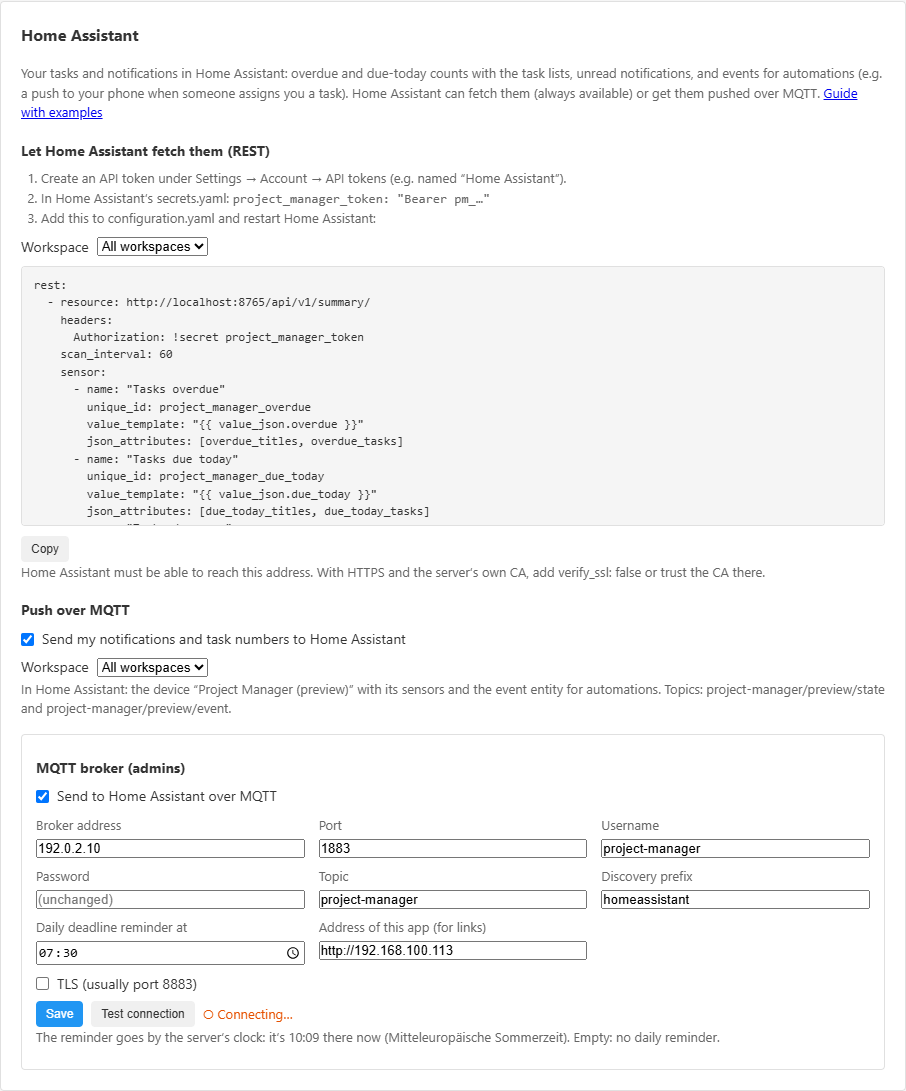
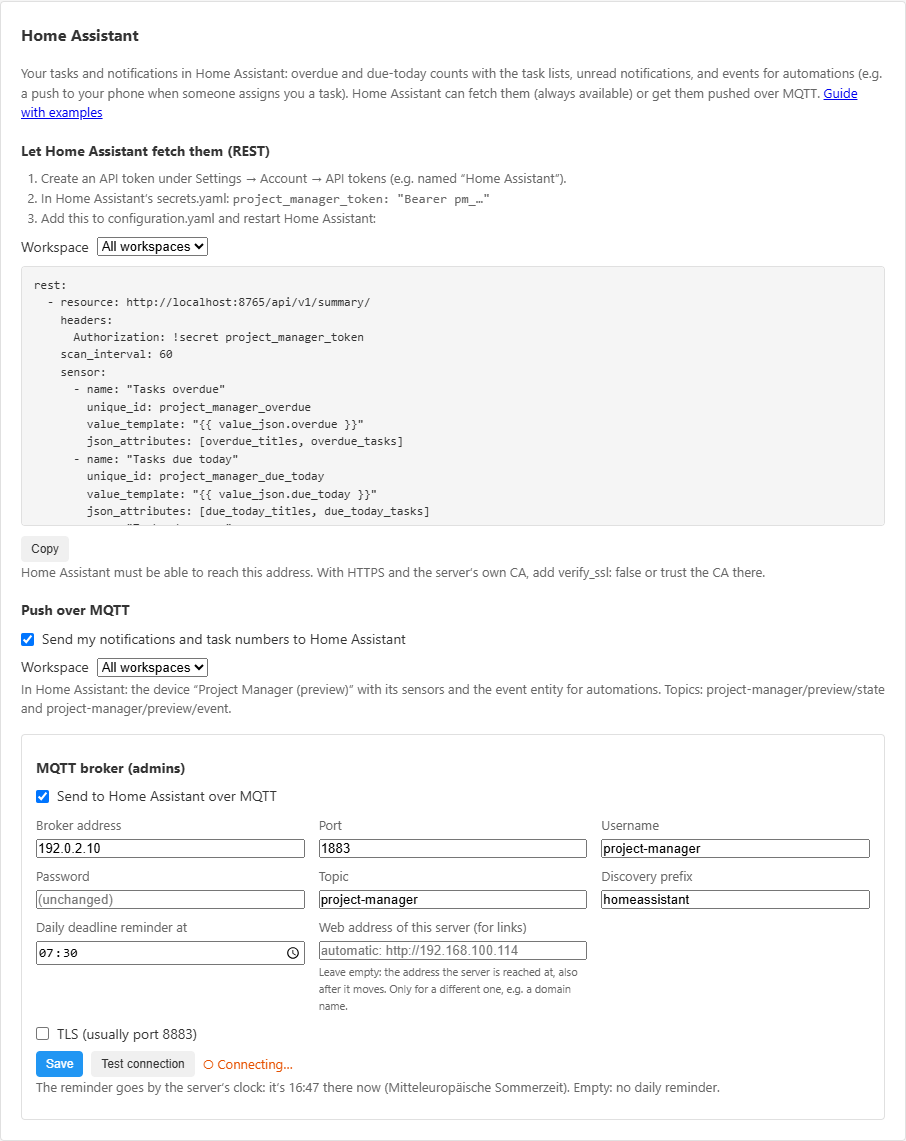
Home Assistant links: use the address the server is reached at (v1.50.1)
app/server_url.py remembers the address requests come in on (not
localhost; stored only when it changes); MQTT links and the device's
configuration URL use it when "Web address of this server" is empty, so
they follow the server to a new IP. The settings field (renamed from the
misleading "Address of this app") shows it as "automatic: …".

Changed region(s): [[0.0, 0.0312, 0.9581, 0.9661], [0.649, 0.5921, 0.9581, 0.6544]]

diff --git a/frontend/src/locales/de.js b/frontend/src/locales/de.js
@@ -41,7 +41,6 @@ const de = {
   "Add label": "Label hinzufügen",
   "Add subtask": "Unteraufgabe hinzufügen",
   "Add this to configuration.yaml and restart Home Assistant:": "Füge das in die configuration.yaml ein und starte Home Assistant neu:",
-  "Address of this app (for links)": "Adresse dieser App (für Links)",
   "Admin": "Admin",
   "admin, sees it anyway": "Admin, sieht es ohnehin",
   "All": "Alle",
@@ -83,6 +82,7 @@ const de = {
   "Assignee…": "Zuständig…",
   "At least 8 characters.": "Mindestens 8 Zeichen.",
   "Automatic (browser language)": "Automatisch (Browsersprache)",
+  "automatic: {url}": "automatisch: {url}",
   "Back": "Zurück",
   "Back up automatically every night (03:15)": "Jede Nacht automatisch sichern (03:15)",
   "Back up now": "Jetzt sichern",
@@ -381,6 +381,7 @@ const de = {
   "last workday": "letzter Werktag",
   "last {weekday}": "letzter {weekday}",
   "Later": "Später",
+  "Leave empty: the address the server is reached at, also after it moves. Only for a different one, e.g. a domain name.": "Leer lassen: die Adresse, unter der der Server erreicht wird – auch nach einem Umzug. Nur für eine andere ausfüllen, z. B. einen Domainnamen.",
   "Let Home Assistant fetch them (REST)": "Von Home Assistant abrufen lassen (REST)",
   "Loading projects…": "Projekte werden geladen …",
   "Loading tasks…": "Aufgaben werden geladen …",
@@ -803,6 +804,7 @@ const de = {
   "Waiting for: {tasks}": "Wartet auf: {tasks}",
   "waiting · {n}": "wartet · {n}",
   "Waits for": "Wartet auf",
+  "Web address of this server (for links)": "Webadresse dieses Servers (für Links)",
   "Week": "Woche",
   "week": "Woche",
   "weekly": "wöchentlich",

diff --git a/frontend/src/components/HomeAssistantSettings.js b/frontend/src/components/HomeAssistantSettings.js
@@ -65,6 +65,8 @@ function BrokerSettings({ onSaved }) {
 
   // What's saved on the server (the form may hold unsaved edits).
   const [saved, setSaved] = useState(null);
+  // The address the server is reached at, used for links when app_url is empty.
+  const [detected, setDetected] = useState('');
 
   useEffect(() => {
     call('/api/v1/home-assistant/mqtt')
@@ -72,6 +74,7 @@ function BrokerSettings({ onSaved }) {
         setForm(data.settings);
         setSaved(data.settings);
         setStatus(data.status);
+        setDetected(data.detected_url || '');
       })
       .catch((err) => setMessage({ ok: false, text: err.message }));
   }, []);
@@ -167,8 +170,15 @@ function BrokerSettings({ onSaved }) {
           <input type="time" value={form.reminder_time} onChange={(e) => set('reminder_time', e.target.value)} />
         </label>
         <label>
-          {t('Address of this app (for links)')}
-          <input value={form.app_url} onChange={(e) => set('app_url', e.target.value)} placeholder={IS_DESKTOP ? getServer() || '' : window.location.origin} />
+          {t('Web address of this server (for links)')}
+          <input
+            value={form.app_url}
+            onChange={(e) => set('app_url', e.target.value)}
+            placeholder={detected ? t('automatic: {url}', { url: detected }) : IS_DESKTOP ? getServer() || '' : window.location.origin}
+          />
+          <small>
+            {t('Leave empty: the address the server is reached at, also after it moves. Only for a different one, e.g. a domain name.')}
+          </small>
         </label>
       </div>
       <label className="ha-check">

diff --git a/backend/app/mqtt.py b/backend/app/mqtt.py
@@ -35,7 +35,7 @@ import paho.mqtt.client as paho
 from sqlalchemy import event
 from sqlalchemy.orm import Session
 
-from app import access, summary
+from app import access, server_url, summary
 from app.database import SessionLocal
 from app.models import AppSetting, Notification, Task, TaskComment, User
 from app.version import APP_VERSION
@@ -52,7 +52,7 @@ DEFAULTS = {
     "mqtt_topic": "project-manager",
     "mqtt_discovery_prefix": "homeassistant",
     "mqtt_reminder_time": "07:30",  # server local time; "" = no daily reminder
-    "mqtt_app_url": "",  # e.g. http://192.168.100.113, for links in events and sensors
+    "mqtt_app_url": "",  # links in events and sensors; "": the address the server is reached at (app/server_url.py)
 }
 CONNECTION_KEYS = ("mqtt_enabled", "mqtt_host", "mqtt_port", "mqtt_username", "mqtt_password", "mqtt_tls", "mqtt_topic")
 REMINDER_SENT_KEY = "mqtt_reminder_sent"  # date of the last daily reminder
@@ -329,6 +329,10 @@ class Bridge:
         if reason_code is not None and str(reason_code) not in ("0", "Success", "Normal disconnection"):
             self.last_error = str(reason_code)
 
+    def _app_url(self, db: Session) -> str:
+        """Where links point: the address set in the settings, else the one the server is reached at."""
+        return (self.cfg["mqtt_app_url"] or server_url.get(db)).rstrip("/")
+
     def _publish(self, topic: str, payload, retain: bool = False):
         if self.client is None or not self.connected:
             return
@@ -345,14 +349,14 @@ class Bridge:
         except ValueError:
             return None
 
-    def _discovery(self, user: User) -> dict:
+    def _discovery(self, user: User, app_url: str = "") -> dict:
         """topic -> config for the user's entities."""
         cfg, s = self.cfg, slug(user.username)
         base, disc = cfg["mqtt_topic"], cfg["mqtt_discovery_prefix"]
         device = {"identifiers": [f"project_manager_{s}"], "name": f"Project Manager ({user.username})",
                   "manufacturer": "Project Manager", "model": "Tasks", "sw_version": APP_VERSION}
-        if cfg["mqtt_app_url"]:
-            device["configuration_url"] = cfg["mqtt_app_url"]
+        if app_url:
+            device["configuration_url"] = app_url
         common = {"device": device, "availability_topic": f"{base}/status"}
         state = f"{base}/{s}/state"
         out = {}
@@ -385,13 +389,13 @@ class Bridge:
             self._publish(f"{self.cfg['mqtt_topic']}/{s}/state", "", retain=True)
         for s, user in users.items():
             if force or s not in self.announced:
-                for topic, entity in self._discovery(user).items():
+                for topic, entity in self._discovery(user, self._app_url(db)).items():
                     self._publish(topic, entity, retain=True)
         self.announced = set(users)
 
     def _publish_states(self, db: Session):
         for user in self._users(db):
-            data = summary.build(db, user, self._workspace(db, user), base_url=self.cfg["mqtt_app_url"].rstrip("/"))
+            data = summary.build(db, user, self._workspace(db, user), base_url=self._app_url(db))
             self._publish(f"{self.cfg['mqtt_topic']}/{slug(user.username)}/state", data, retain=True)
 
     def _publish_notifications(self, db: Session, ids):
@@ -417,8 +421,9 @@ class Bridge:
                 "actor": n.actor.username if n.actor else None,
                 "excerpt": n.excerpt,
             }
-            if self.cfg["mqtt_app_url"] and n.task_id:
-                payload["url"] = f"{self.cfg['mqtt_app_url'].rstrip('/')}/?task={n.task_id}"
+            app_url = self._app_url(db)
+            if app_url and n.task_id:
+                payload["url"] = f"{app_url}/?task={n.task_id}"
             self._publish(f"{self.cfg['mqtt_topic']}/{slug(user.username)}/event", payload)
 
     def _remind(self, db: Session):
@@ -433,7 +438,7 @@ class Bridge:
         if sent is not None and sent.value == today:
             return
         for user in self._users(db):
-            data = summary.build(db, user, self._workspace(db, user), base_url=self.cfg["mqtt_app_url"].rstrip("/"))
+            data = summary.build(db, user, self._workspace(db, user), base_url=self._app_url(db))
             if not data["overdue"] and not data["due_today"]:
                 continue
             words = TEXTS.get(user.language or "en", TEXTS["en"])

diff --git a/backend/tests/test_home_assistant.py b/backend/tests/test_home_assistant.py
@@ -221,3 +221,43 @@ def test_mqtt_switched_off_does_nothing(client, admin, alice, bridge):
     bridge.drain()
     assert broker.last("project-manager/status") == "offline" and broker.disconnected
     assert bridge.connected is False
+
+
+def test_links_use_the_address_the_server_is_reached_at(client, admin, alice, bob, bridge):
+    from app import server_url
+
+    server_url.forget()
+    at = lambda user, host="192.168.100.114": {**user.headers, "Host": host}  # noqa: E731
+
+    def task_for_alice(title, host="192.168.100.114"):
+        r = client.post("/api/v1/tasks/", json={"title": title, "assignee_id": alice.id}, headers=at(bob, host))
+        assert r.status_code == 200, r.text
+        return r.json()
+
+    # requests from the server itself don't count; others are remembered
+    client.get("/api/v1/auth/me", headers={**alice.headers, "Host": "localhost"})
+    client.get("/api/v1/auth/me", headers={**alice.headers, "Host": "192.168.100.114", "X-Forwarded-Proto": "http"})
+    r = client.get("/api/v1/home-assistant/mqtt", headers={**admin.headers, "Host": "192.168.100.114"})
+    assert r.json()["detected_url"] == "http://192.168.100.114"
+    assert r.json()["settings"]["app_url"] == ""
+
+    # MQTT with no address set: task links use the one the server is reached at
+    client.put("/api/v1/home-assistant/me", json={"enabled": True}, headers=at(alice))
+    client.put("/api/v1/home-assistant/mqtt", json={"enabled": True, "host": "broker"},
+               headers={**admin.headers, "Host": "192.168.100.114"})
+    bridge.drain()
+    task = task_for_alice("Linked")
+    bridge.drain()
+    broker = FakeClient.instances[-1]
+    assert broker.all("project-manager/alice/event")[-1]["url"] == f"http://192.168.100.114/?task={task['id']}"
+
+    # the server moved: links follow
+    task_for_alice("Moved", host="192.168.100.120")
+    bridge.drain()
+    assert broker.all("project-manager/alice/event")[-1]["url"].startswith("http://192.168.100.120/?task=")
+    # an address set by hand wins
+    client.put("/api/v1/home-assistant/mqtt", json={"app_url": "https://pm.example.com"}, headers=at(admin, "192.168.100.120"))
+    bridge.drain()
+    task_for_alice("Domain", host="192.168.100.120")
+    bridge.drain()
+    assert broker.all("project-manager/alice/event")[-1]["url"].startswith("https://pm.example.com/?task=")

diff --git a/backend/app/server_url.py b/backend/app/server_url.py
@@ -1,0 +1,53 @@
+"""The web address this server is reached at (e.g. http://192.168.100.114),
+learned from the requests it gets -- for links that leave the app, like the
+task links Home Assistant shows (app/mqtt.py). It follows the server when its
+address changes; an admin can still set one explicitly (mqtt_app_url).
+
+Requests from the server itself (localhost) don't count. Stored as the
+AppSetting "server_url", written only when it changes."""
+from typing import Optional
+
+from sqlalchemy.orm import Session
+
+from app.database import SessionLocal
+from app.models import AppSetting
+
+KEY = "server_url"
+_last: Optional[str] = None  # what's stored, so most requests cost nothing
+
+
+def _from_request(request) -> Optional[str]:
+    host = request.headers.get("host", "").strip()
+    name = host.rsplit(":", 1)[0].strip("[]") if not host.startswith("[") else host.split("]")[0].strip("[")
+    if not host or name in ("localhost", "::1") or name.startswith("127."):
+        return None
+    proto = request.headers.get("x-forwarded-proto", request.url.scheme).split(",")[0].strip()
+    return f"{proto}://{host}"
+
+
+def note(request):
+    """Remembers the address `request` came in on (called for every API request)."""
+    global _last
+    url = _from_request(request)
+    if url is None or url == _last:
+        return
+    with SessionLocal() as db:
+        row = db.get(AppSetting, KEY)
+        if row is None:
+            db.add(AppSetting(key=KEY, value=url))
+        elif row.value != url:
+            row.value = url
+        db.commit()
+    _last = url
+
+
+def get(db: Session) -> str:
+    """The address last seen, or "" before any request from outside."""
+    row = db.get(AppSetting, KEY)
+    return row.value if row else ""
+
+
+def forget():
+    """For tests: the next request writes again."""
+    global _last
+    _last = None

diff --git a/tools/screenshots.py b/tools/screenshots.py
@@ -29,9 +29,9 @@ def token(user="preview"):
     return open(path).read().strip()
 
 
-def api(method, path, body=None):
+def api(method, path, body=None, headers=None):
     req = urllib.request.Request(BASE + path, method=method, data=None if body is None else json.dumps(body).encode(),
-                                 headers={"Authorization": f"Bearer {token()}", "Content-Type": "application/json"})
+                                 headers={"Authorization": f"Bearer {token()}", "Content-Type": "application/json", **(headers or {})})
     return json.loads(urllib.request.urlopen(req).read() or b"null")
 
 
@@ -227,8 +227,10 @@ def shot(page, ctx, name, path, full, action):
         return sec.get_by_role("button", name="Cancel").click()  # nothing is switched on
     if action == "home-assistant":
         # A sample broker address (192.0.2.x is reserved for documentation).
+        # As if reached at the server's real address: the field shows it as automatic.
+        api("GET", "/api/v1/auth/me", headers={"Host": "192.168.100.114"})
         api("PUT", "/api/v1/home-assistant/mqtt", {"enabled": True, "host": "192.0.2.10", "username": "project-manager",
-                                                   "password": "sample", "app_url": "http://192.168.100.113"})
+                                                   "password": "sample", "app_url": ""})
         api("PUT", "/api/v1/home-assistant/me", {"enabled": True})
         try:
             page.reload()

diff --git a/backend/app/routers/homeassistant.py b/backend/app/routers/homeassistant.py
@@ -3,7 +3,7 @@ and each user's opt-in. Polling instead needs nothing here: GET /summary."""
 from fastapi import APIRouter, Depends, HTTPException
 from sqlalchemy.orm import Session
 
-from app import mqtt, schemas, summary
+from app import mqtt, schemas, server_url, summary
 from app.auth import get_current_admin_user, get_current_user
 from app.database import get_db
 from app.models import User
@@ -34,7 +34,7 @@ def _changes(data: schemas.MqttSettingsUpdate) -> dict:
 @router.get("/mqtt")
 def get_mqtt(current_user: User = Depends(get_current_admin_user), db: Session = Depends(get_db)):
     """The broker settings (without the password) and how the connection is doing."""
-    return {"settings": _out(mqtt.read_config(db)), "status": mqtt.bridge.status()}
+    return {"settings": _out(mqtt.read_config(db)), "status": mqtt.bridge.status(), "detected_url": server_url.get(db)}
 
 
 @router.put("/mqtt")
@@ -46,7 +46,7 @@ def update_mqtt(data: schemas.MqttSettingsUpdate, current_user: User = Depends(g
         raise HTTPException(status_code=400, detail="Enter the broker address first")
     mqtt.write_config(db, changes)
     mqtt.bridge.reload()
-    return {"settings": _out(mqtt.read_config(db)), "status": mqtt.bridge.status()}
+    return {"settings": _out(mqtt.read_config(db)), "status": mqtt.bridge.status(), "detected_url": server_url.get(db)}
 
 
 @router.post("/mqtt/test")

diff --git a/backend/app/main.py b/backend/app/main.py
@@ -3,7 +3,7 @@ from contextlib import asynccontextmanager
 
 from fastapi import FastAPI
 from fastapi.middleware.cors import CORSMiddleware
-from app import mqtt
+from app import mqtt, server_url
 from app.routers import (
     users, tasks, projects, auth, system, settings, transfer, comments, notifications, labels, tokens, deletions, sync,
     calendar, saved_filters, templates, shared, pins, workspaces, summary, homeassistant,
@@ -44,6 +44,14 @@ app = FastAPI(
     redoc_url="/api/redoc",
     openapi_url="/api/openapi.json",
 )
+
+@app.middleware("http")
+async def remember_address(request, call_next):
+    """The address this server is reached at, for links leaving the app (app/server_url.py)."""
+    if request.url.path.startswith("/api/"):
+        server_url.note(request)
+    return await call_next(request)
+
 
 app.add_middleware(
     CORSMiddleware,

diff --git a/docs/home-assistant.md b/docs/home-assistant.md
@@ -116,7 +116,7 @@ the device **Project Manager (username)**. Needs Home Assistant 2025.10 or newer
 | Topic | `project-manager` — where the app publishes (`project-manager/<user>/…`) |
 | Discovery prefix | `homeassistant` (Home Assistant's default) |
 | Daily deadline reminder at | e.g. `07:30` — the **server's** clock (the page shows its current time); empty: none |
-| Address of this app | e.g. `http://192.168.100.114` — for links to tasks in events and sensors |
+| Web address of this server | for links to tasks in events and sensors. **Leave it empty**: the server uses the address it's reached at (e.g. `http://192.168.100.114`) and follows when that changes; the field shows it as *automatic*. Fill it in only for a different one, e.g. a domain name. |
 | TLS | if the broker has TLS set up |
 
 **Test connection** tries the settings without saving; after **Save** the

diff --git a/README.md b/README.md
@@ -96,8 +96,7 @@ copy the YAML from *Settings → Calendar & Home Assistant* into
 
 **Quick setup — MQTT**: in Home Assistant install the **Mosquitto broker**
 add-on, set up the **MQTT** integration and create a login for the app; in
-the app (admin) enter broker address, port, login, the reminder time and the
-app's address, **Test connection**, tick *Send to Home Assistant over MQTT*,
+the app (admin) enter broker address, port, login and the reminder time, **Test connection**, tick *Send to Home Assistant over MQTT*,
 **Save**; then each user ticks **Send my notifications and task numbers to
 Home Assistant** on the same page. The status says *● Connected*.
 

diff --git a/CHANGELOG.md b/CHANGELOG.md
@@ -6,6 +6,7 @@ All notable changes, newest first. Versions follow [semantic versioning](docs/de
 
 ### Fixed
 - Windows/Linux app, *Change address*: the field is wide enough for a whole address (it showed only `http://192.`).
+- Home Assistant: the address for task links **fills itself in** — the server remembers the address it's reached at and uses it when the field is empty, so links keep working after the server gets a new IP. The field (now *Web address of this server*, it was the misleading *Address of this app*) is only needed for a different address, e.g. a domain name.
 
 ## v1.50.0 — 2026-10-04
 
